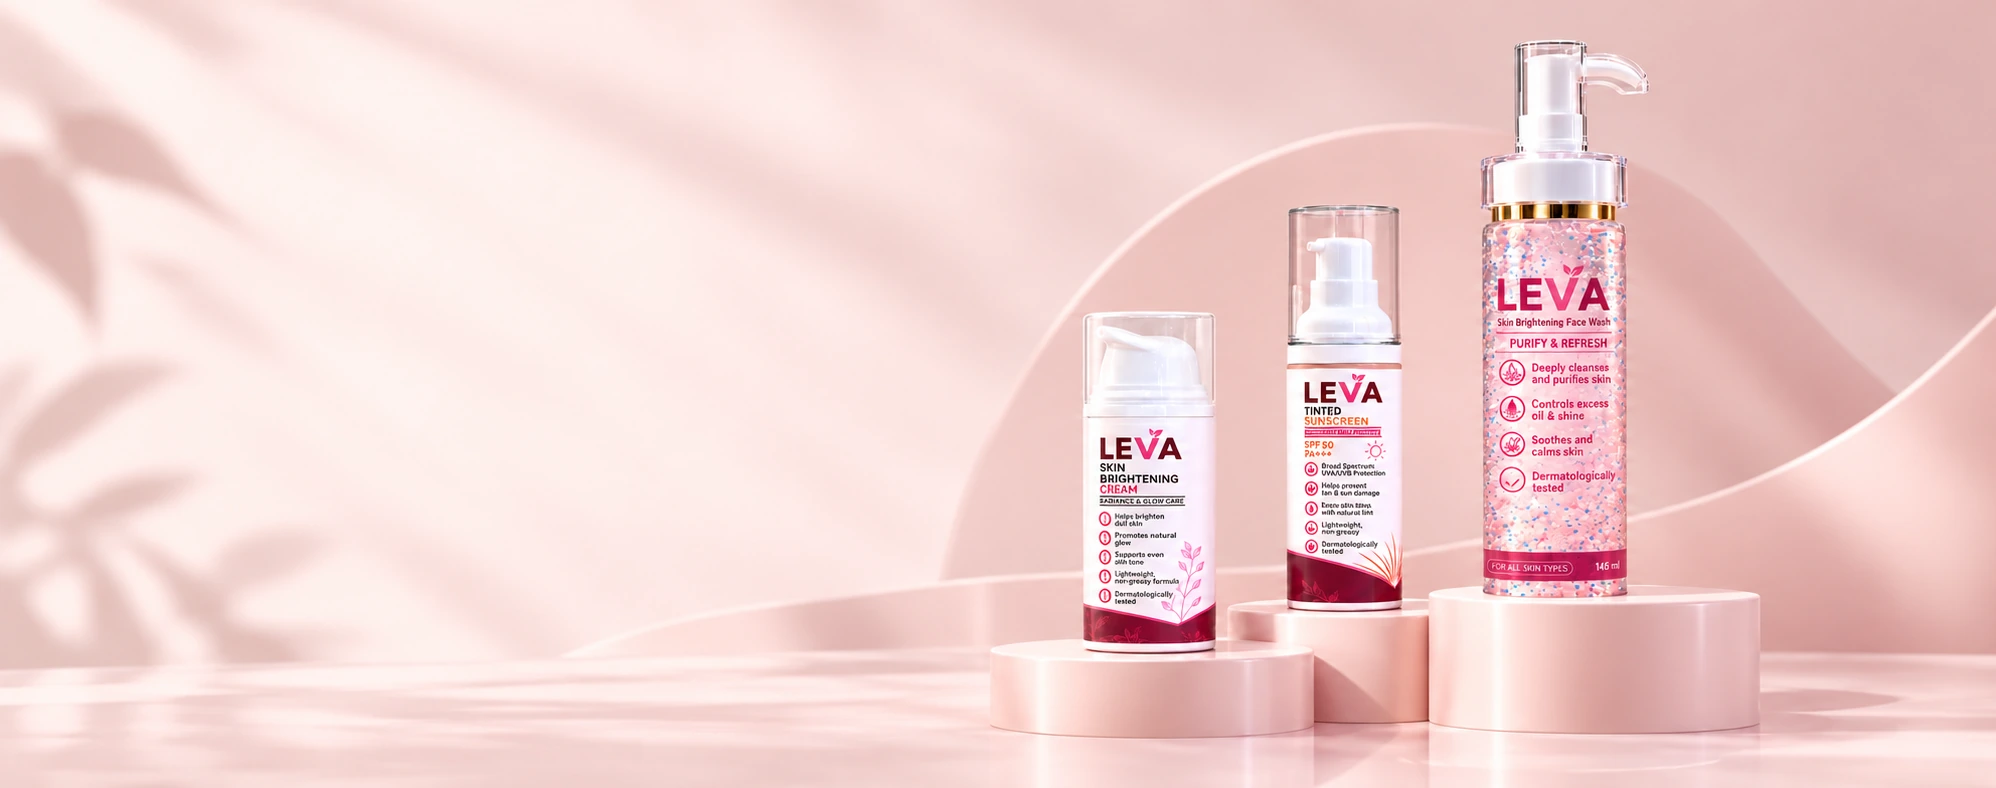
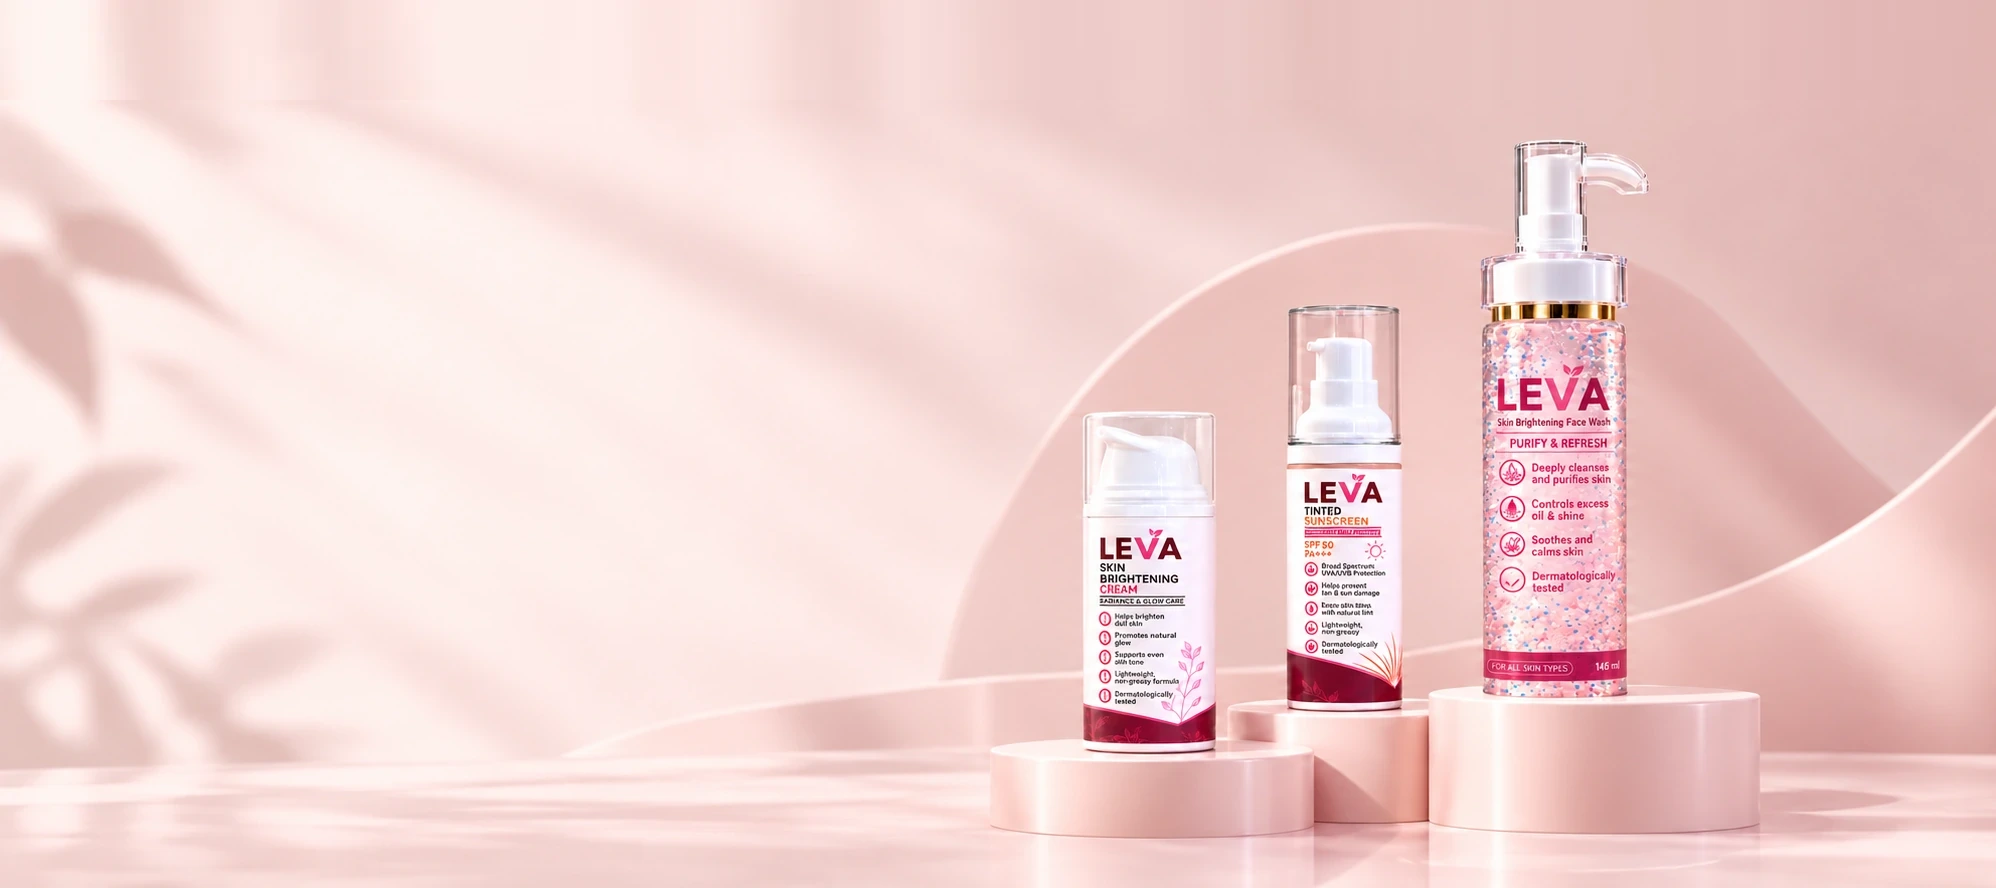
feat(hero): keep zoomed out perspective and apply fixed background attachment

diff --git a/src/components/home/Hero.tsx b/src/components/home/Hero.tsx
@@ -1,12 +1,10 @@
 import Image from "next/image";
-import { motion, useReducedMotion, useScroll, useTransform } from "motion/react";
+import { motion, useReducedMotion } from "motion/react";
 import { ArrowRight } from "lucide-react";
 import { Link } from "@/lib/router-compat";
 import { Button } from "@/components/ui/button";
 
 export function Hero() {
-  const { scrollYProgress } = useScroll();
-  const imageY = useTransform(scrollYProgress, [0, 0.2], [0, 50]);
   const reducedMotion = useReducedMotion();
 
   return (
@@ -18,11 +16,16 @@ export function Hero() {
       }}
     >
       <div className="relative h-[calc(100svh-var(--header-h,4rem))] min-h-[560px] w-full flex-1 overflow-hidden">
-        {/* Hero Product Image */}
-        <motion.div
-          className="absolute inset-x-0 bottom-16 h-[46%] w-full overflow-hidden sm:bottom-16 sm:h-[48%] md:bottom-0 md:h-[58%] lg:inset-0 lg:h-full"
-          style={reducedMotion ? {} : { y: imageY }}
-        >
+        {/* Desktop Hero Product Image with bg-attachment fixed */}
+        <div
+          className="absolute inset-0 hidden bg-cover bg-no-repeat md:block md:bg-fixed bg-[center_bottom] lg:bg-[64%_bottom] xl:bg-[center_bottom]"
+          style={{
+            backgroundImage: "url('/images/leva-pink-studio-hero.webp')",
+          }}
+        />
+
+        {/* Mobile Hero Product Image */}
+        <div className="absolute inset-x-0 bottom-16 h-[46%] w-full overflow-hidden sm:bottom-16 sm:h-[48%] md:hidden">
           <div className="relative h-full w-full">
             <Image
               src="/images/leva-pink-studio-hero.webp"
@@ -31,10 +34,10 @@ export function Hero() {
               priority
               quality={90}
               sizes="100vw"
-              className="object-cover object-[92%_bottom] sm:object-[86%_bottom] md:object-[72%_bottom] lg:object-[64%_bottom] xl:object-[center_bottom]"
+              className="object-cover object-[92%_bottom] sm:object-[86%_bottom]"
             />
           </div>
-        </motion.div>
+        </div>
 
         {/* Hero Content (Text & CTA) */}
         <motion.div

diff --git a/src/components/layout/Footer.tsx b/src/components/layout/Footer.tsx
@@ -46,10 +46,10 @@ export function Footer() {
                 type="submit"
                 variant="secondary"
                 size="icon"
-                className="min-h-12 min-w-12 border-primary-foreground text-primary-foreground"
+                className="min-h-12 min-w-12 bg-white text-primary hover:bg-white/90"
                 aria-label="Subscribe"
               >
-                <Send />
+                <Send className="size-4" />
               </Button>
             </form>
           )}
